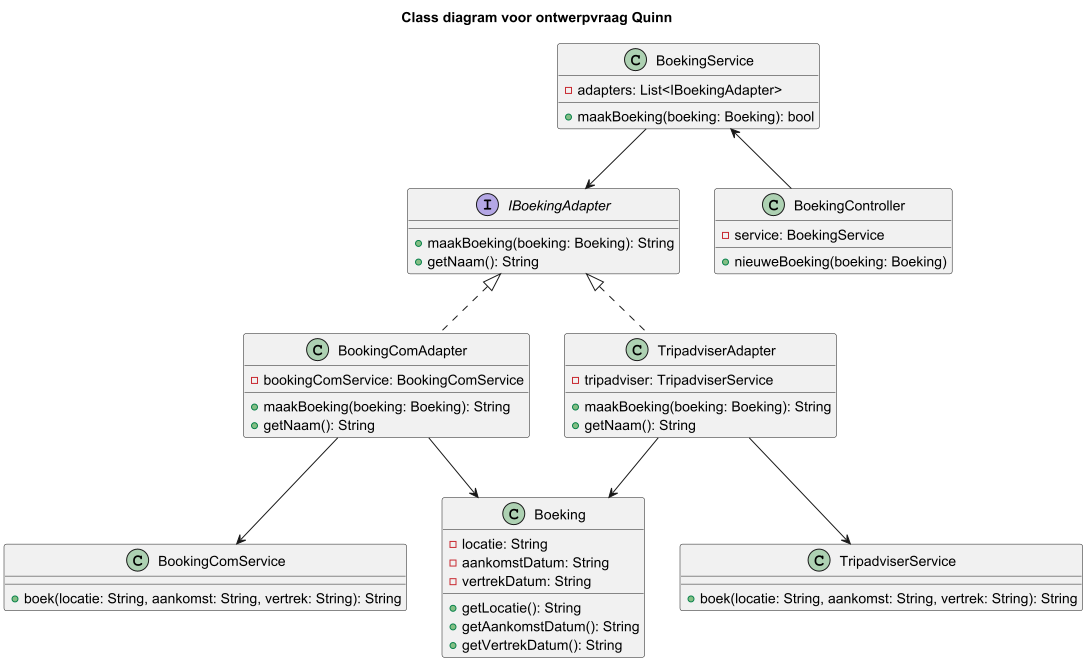
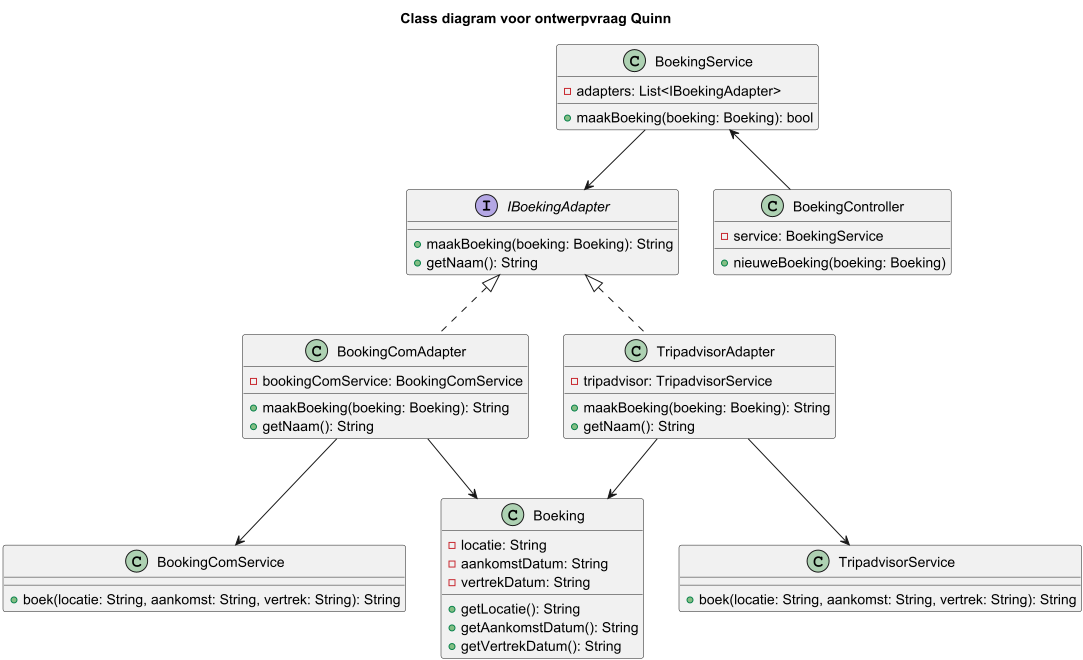
Tripadviser veranderd in Tripadvisor

diff --git a/software-guidebook/README.md b/software-guidebook/README.md
@@ -153,7 +153,7 @@ Hierbij volgt mijn sequence diagram:
 ![img.png](img.png)
 
 **Ontwerpvraag Quinn:** Hoe kunnen verschillende boekingsservices (zoals Booking.com en eigen beheer in Triptop) worden geïntegreerd?
-![img.png](QuinnClassDiagram.png)
+![img_1.png](QuinnClassDiagram.png)
 Op het moment dat een reiziger een boeking wil doen roept hij/zij de BoekingController aan. De reiziger geeft een stad, aankomstdag en vertrekdag door en de controller roept in nieuweBoeking de boekingService aan. Die bevat een lijst van adapters en selecteert de gekozen adapter. Vervolgens wordt een van de adapters aangeroepen die dan via de Service connectie maakt met de API. 
 De data die uit de API wordt opgehaald, wordt teruggestuurd en getoond aan de gebruiker.
 ![img_1.png](QuinnClassSequenceDiagram.png)
